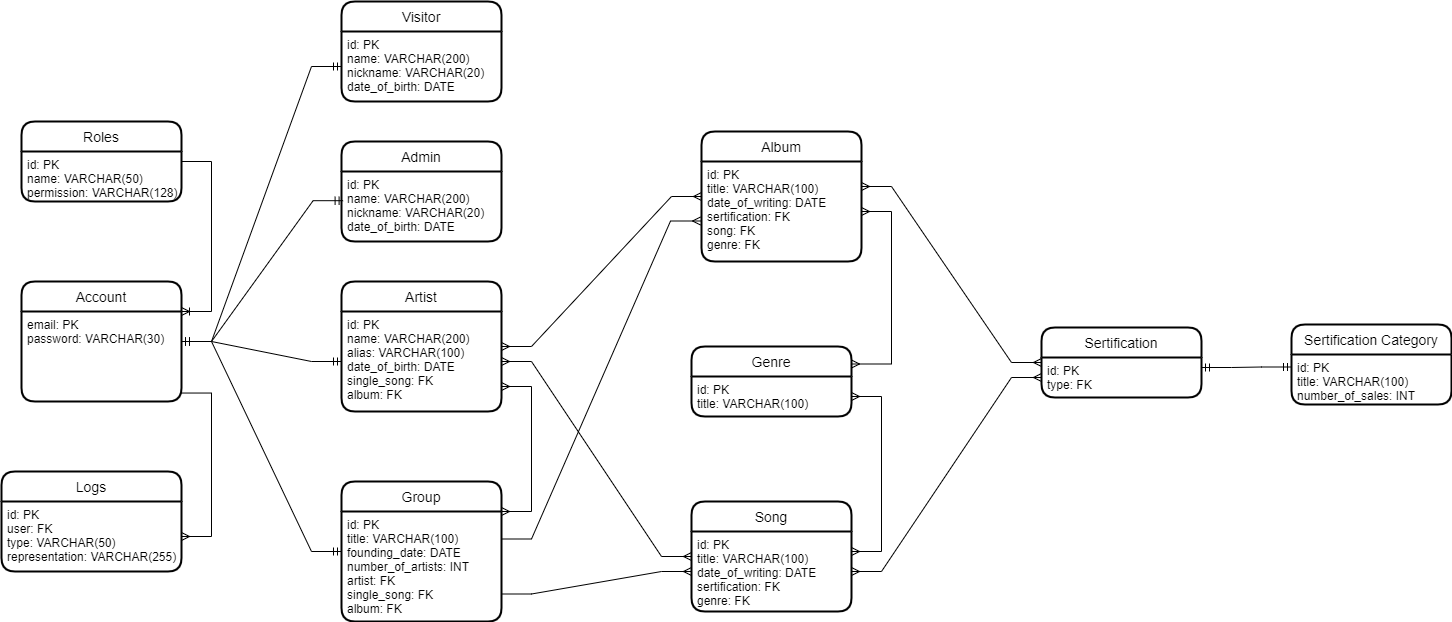
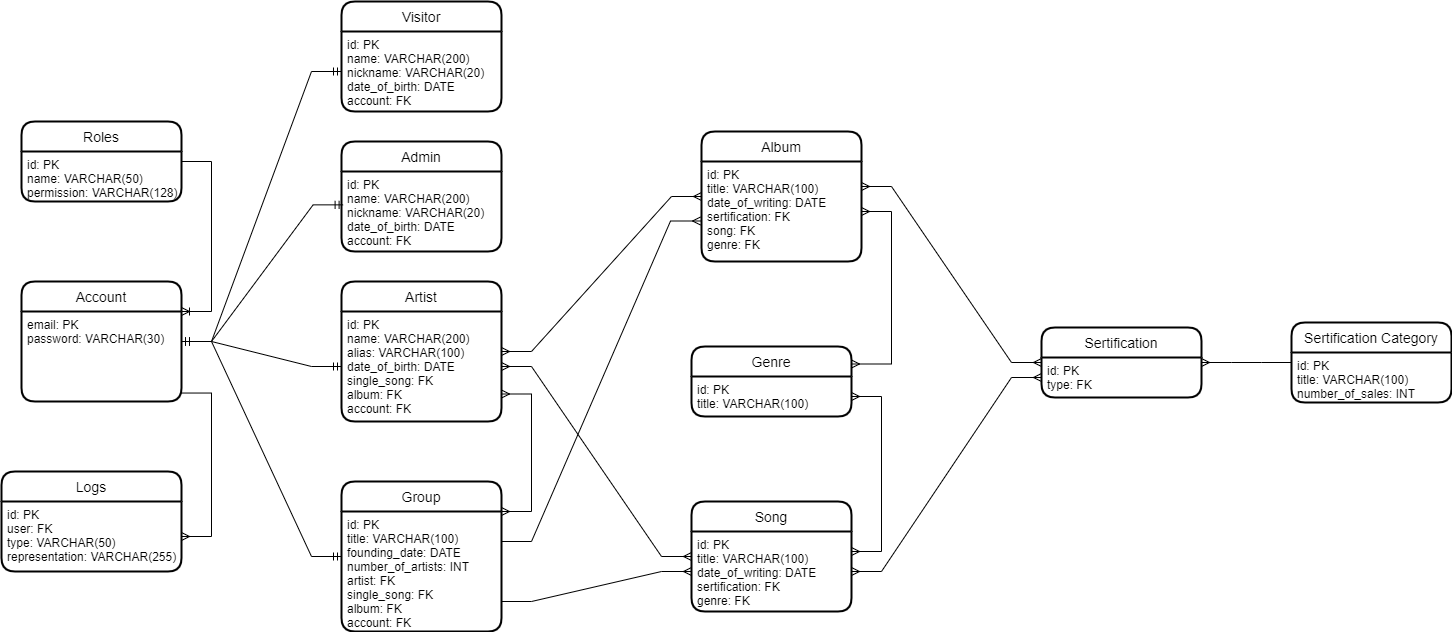
Add FK to Account for live-entities

diff --git a/tables.md b/tables.md
@@ -14,6 +14,7 @@
 |name|VARCHAR(200)|NOT NULL|ФИО Посетителя|
 |nickname|VARCHAR(20)|NOT NULL, UNIQUE|Псевдоним|
 |date_of_birth|DATE|NOT NULL|Дата рождения|
+|account|FK|NOT NULL|Внешний ключ на аккаунт|
 
 ## Артист (Artist)
 |Имя поля|Тип|Ограничения|Описание|
@@ -24,6 +25,7 @@
 |date_of_birth|DATE|NOT NULL|Дата рождения|
 |single_song|FK|NULL|Внешний ключ на сингл Артиста|
 |album|FK|NULL|Внешний ключ на альбом Артиста|
+|account|FK|NOT NULL|Внешний ключ на аккаунт|
 
 ## Группа (Group)
 |Имя поля|Тип|Ограничения|Описание|
@@ -35,6 +37,7 @@
 |number_of_artists|INT|NOT NULL|Количество артистов в группе|
 |album|FK|NULL|Внешний ключ на альбом Группы|
 |single_song|FK|NULL|Внешний ключ на сингл Группы|
+|account|FK|NOT NULL|Внешний ключ на аккаунт|
 
 ## Администратор (Admin)
 |Имя поля|Тип|Ограничения|Описание|
@@ -43,6 +46,7 @@
 name|VARCHAR(200)|NOT NULL|Имя|
 nickname|VARCHAR(20)|NOT NULL|Ник админа|
 date_of_birth|DATE|NOT NULL|Дата рождения
+|account|FK|NOT NULL|Внешний ключ на аккаунт|
 
 ## Альбом (Album)
 |Имя поля|Тип|Ограничения|Описание|

diff --git a/tt.md b/tt.md
@@ -51,7 +51,7 @@ P.S. аккаунт группы по сути тот же аккаунт арт
  - Почта группы
  - Пароль
   
- ## Аккаунт посетителя
+ ## Посетитель
   ---
  При создании аккаунта пользователь должен указать следующие данные:
  - ФИО
@@ -60,5 +60,13 @@ P.S. аккаунт группы по сути тот же аккаунт арт
  - Почта
  - Пароль
   
-  
+ ## Администратор
+  ---
+ При создании аккаунта администратор должен указать следующие данные:
+ - ФИО
+ - Никнейм
+ - Дата рождения
+ - Почта
+ - Пароль
+
  Авторизация всех аккаунтов происходит при помощи почты и пароля.
